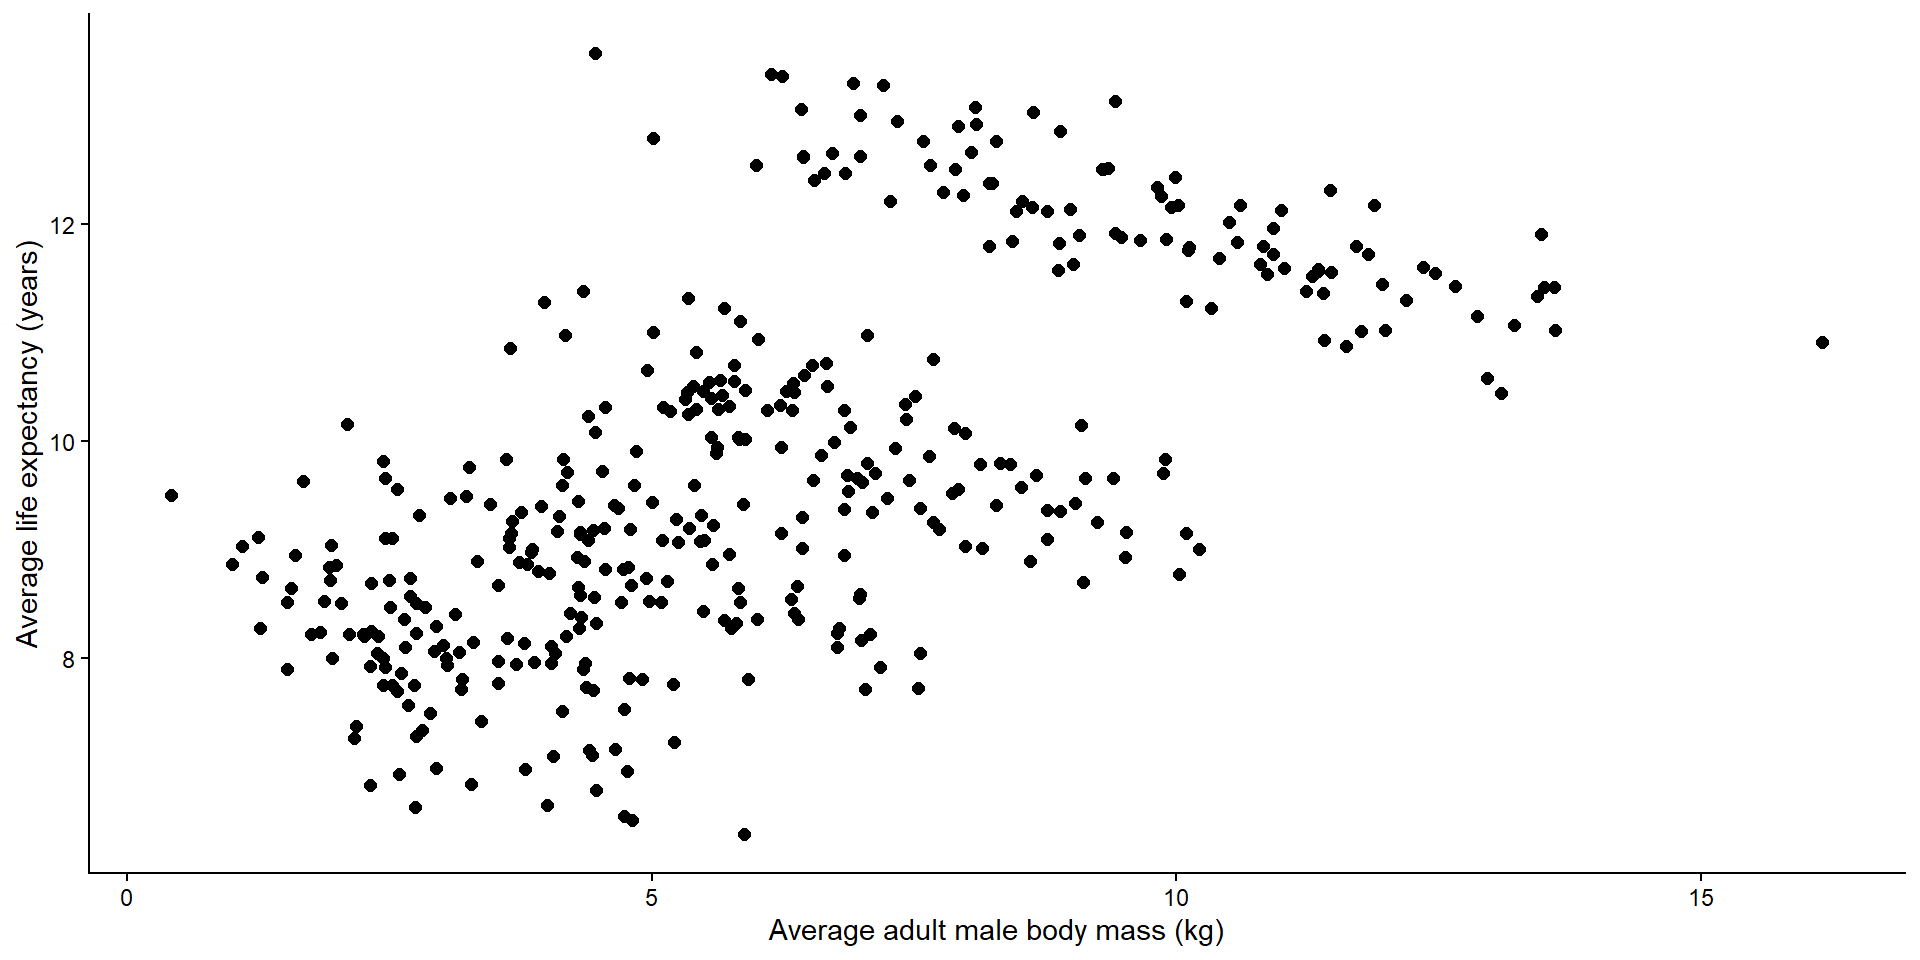
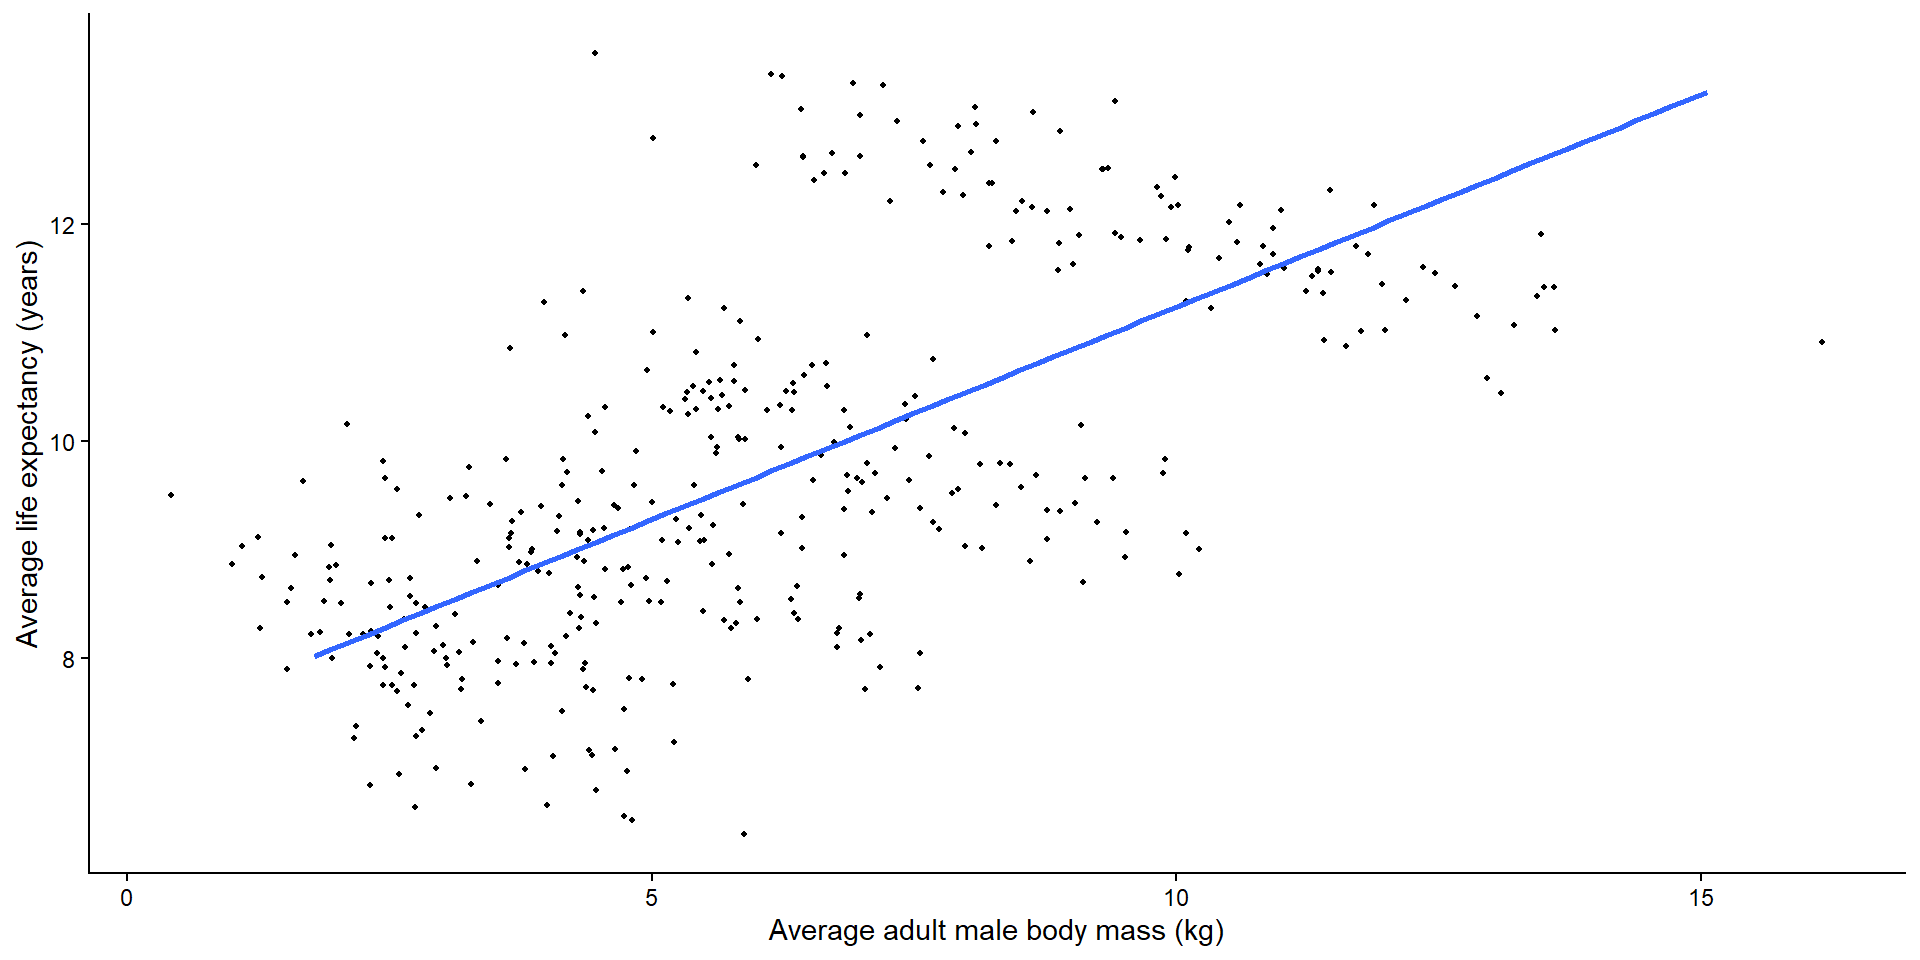
Small edit

diff --git a/docs/slides/output/slides_5.html b/docs/slides/output/slides_5.html
@@ -626,7 +626,7 @@ Cormac Monaghan
 </div>
 </div>
 </section>
-<section id="a-surprising-result" class="slide level2" style="font-size:80%;">
+<section id="a-surprising-result" class="slide level2" style="font-size:75%;">
 <h2>A surprising result</h2>
 <p>We have found two different conclusions:</p>
 <div class="columns">
@@ -646,20 +646,17 @@ Cormac Monaghan
 <p><span class="center"><strong>Treatment B performs better in both</strong></span></p>
 </div></div>
 <div class="fragment fade-up">
-<div class="callout callout-warning callout-titled callout-style-default">
-<div class="callout-body">
-<div class="callout-title">
-<div class="callout-icon-container">
-<i class="callout-icon"></i>
+<div class="columns">
+<div class="column">
+<p><br> <br></p>
+<p><span class="center"><strong>Simspons Paradox</strong></span></p>
+</div><div class="column">
+<div class="quarto-figure quarto-figure-center">
+<figure>
+<p><img data-src="assets/homer-simpson.png" class="quarto-figure quarto-figure-center"></p>
+</figure>
 </div>
-<p><strong>The overall comparison reverses the comparison observed within each hospital.</strong></p>
-</div>
-<div class="callout-content">
-
-</div>
-</div>
-</div>
-<p><img data-src="assets/homer-simpson.png"></p>
+</div></div>
 </div>
 </section>
 <section id="simpsons-paradox" class="slide level2">
